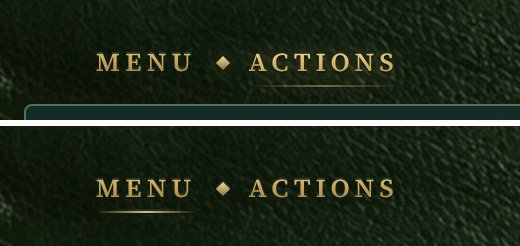
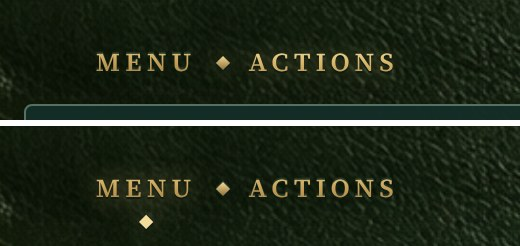
[claude] Group speech runs by speaker; gilt-diamond focus on the leather controls (C-27, C-15)
Show the speaker name once per run of adjacent speech with a binder rule in the speaker's ink,
ending runs at any other block; replace the focus underline with a small gilt diamond.

Claude-Session: https://claude.ai/code/session_0164VV19bnh1hkZMg8eR3MMc

diff --git a/src/ui/vn.ts b/src/ui/vn.ts
@@ -206,7 +206,8 @@ export class VNView {
     if (p.role === 'speech') {
       const w = this.who(p.speaker);
       const fixed = this.cast.some(c => (c.id ?? c.name) === (w.id ?? w.name));
-      return h('div', { class: `blk speech${w.id === this.opts.playerId ? ' speech-player' : ''}` },
+      const key = w.id ?? w.name;
+      return h('div', { class: `blk speech${w.id === this.opts.playerId ? ' speech-player' : ''}`, 'data-speaker': key, style: `--speaker-color: ${speakerColor(key)}` },
         h('div', { class: 'speaker' }, w.id === this.opts.playerId ? null : this.speakerIcon(w, fixed), w.name),
         h('div', { class: 'text', html: inlineMd(p.text) }));
     }
@@ -215,6 +216,13 @@ export class VNView {
 
   private async appendBlock(el: HTMLElement) {
     for (const old of this.log.querySelectorAll('.blk.current')) old.classList.remove('current');
+    // G-13: adjacent speech by the same person forms one run — one name, one binder bar. Any other block between
+    // (narration, thought, choice echo, a different speaker) ends the run; text and reveal boundaries are unchanged.
+    const prev = this.choices.previousElementSibling as HTMLElement | null;
+    if (el.classList.contains('speech') && prev?.classList.contains('speech') && prev.dataset.speaker === el.dataset.speaker) {
+      el.classList.add('speech-cont');
+      prev.classList.add('speech-runs-on');
+    }
     const animate = this.opts.transitions && !window.matchMedia('(prefers-reduced-motion: reduce)').matches;
     el.classList.add('current');
     if (animate) el.classList.add('enter');
@@ -357,4 +365,12 @@ export class VNView {
     await wait(this.opts.transitions ? 450 : 0);
     this.el.hidden = true;
   }
+}
+
+/** A restrained, stable ink colour per speaker for names and run binders (never red: red is for crises). */
+const SPEAKER_INKS = ['#1f5a47', '#3b5f86', '#7a5a2a', '#5b4a7a', '#2f6b6b', '#6b5a3a', '#4a6b3a', '#7a4f5e'];
+function speakerColor(key: string): string {
+  let h = 0;
+  for (const ch of key) h = (h * 31 + ch.charCodeAt(0)) >>> 0;
+  return SPEAKER_INKS[h % SPEAKER_INKS.length]!;
 }

diff --git a/src/styles/08-dialogue-presentation.css b/src/styles/08-dialogue-presentation.css
@@ -39,3 +39,16 @@
 .vn .vn-foreground { position: absolute; inset: 0; z-index: 1; overflow: hidden; pointer-events: none; }
 .vn .vn-foreground img { width: 100%; height: 100%; object-fit: cover; }
 .vn .vn-column { position: relative; z-index: 2; }
+
+/* G-13 / C-27: a continuous run of speech by one person — the name once, a slim binder rule in the speaker's ink
+   spanning the whole run, natural paragraph spacing kept. */
+.vn .blk.speech { position: relative; padding-left: 14px; }
+.vn .blk.speech::before { content: ''; position: absolute; left: 0; top: .2em; bottom: .1em; width: 2px; border-radius: 2px; background: var(--speaker-color, #1f5a47); opacity: .75; }
+.vn .blk.speech.speech-runs-on { margin-bottom: 0; padding-bottom: .55em; }
+.vn .blk.speech.speech-runs-on::before { bottom: 0; border-radius: 2px 2px 0 0; }
+.vn .blk.speech.speech-cont { margin-top: 0; }
+.vn .blk.speech.speech-cont::before { top: 0; border-radius: 0; }
+.vn .blk.speech.speech-cont:not(.speech-runs-on)::before { border-radius: 0 0 2px 2px; }
+.vn .blk.speech.speech-cont > .speaker { display: none; }
+.vn .blk.speech > .speaker { color: var(--speaker-color, #1f5a47); }
+.vn .blk.speech-player::before { background: #b99a60; }

diff --git a/src/styles/20-desk-glass.css b/src/styles/20-desk-glass.css
@@ -196,3 +196,12 @@ body.vn-active .glass-hud, .map.dim .glass-hud { opacity: .4; }
 /* C-28: object pins read at ~44 px tall at both map scales */
 .marker-body { transform: scale(calc(1.7 / var(--zoom, 1))); }
 .marker:hover .marker-body, .marker:focus .marker-body { transform: scale(calc(1.85 / var(--zoom, 1))); }
+
+/* C-15 review: keyboard focus on the leather controls is a small gilt diamond under the word, never a rule or box. */
+.ui-layer .top-left .btn.ghost::after {
+  display: block; content: '◆'; left: 50%; right: auto; bottom: -9px; width: auto; height: auto; transform: translateX(-50%);
+  background: none; font-size: 7px; letter-spacing: 0; -webkit-text-fill-color: #f3dc9c; opacity: 0;
+}
+.ui-layer .top-left .btn.ghost:hover::after { opacity: 0; }
+.ui-layer .top-left .btn.ghost:focus-visible::after { opacity: 1; }
+.ui-layer .top-left .btn.ghost:focus-visible { filter: drop-shadow(0 1px 0 #0c1d16) drop-shadow(0 0 6px #f1d38c66); }

diff --git a/docs/collab/BOARD.md b/docs/collab/BOARD.md
@@ -13,7 +13,7 @@ section. Move finished tasks to **Done** with the commit hash.
 | G-02 | chatgpt | doing | design, ui | **Visual review of the playable build.** Play `npm run dev` (or the GitHub Pages build) and list, per screen, what doesn't match the art direction. File each as a `ui` task for Claude, with a short spec or mock-up in `docs/design/`. Priority: map desk, dialogue screen, tablet, turn ledger, title. | Findings and review gate: `docs/design/G-02-visual-review.md`; reviewed C-01 desktop capture. |
 | G-03 | chatgpt | todo | art | **Lara layered portrait sources** per the customization plan (starter set: 2 hair × 4 outfits × 2 poses × 3 expressions, aligned transparent layers). Needs author approval of Lara's face first. | |
 | G-12 | chatgpt | review | art, design | **Tablet app icon family.** Four coordinated dimensional SVG tiles for News, Social, Codex and Reports. | Assets: `public/tablet/apps/{news,social,codex,reports}.svg`; C-26 integration/capture pending. |
-| C-27 | claude | doing | ui, ux | **Group continuous dialogue by speaker.** Show one name for adjacent speech beats from the same speaker and bind the run with a narrow bar in the speaker color; preserve text/reveal/effect boundaries. | `docs/design/G-13-dialogue-speaker-runs.md`; author feedback, visible in the Blue Room capture. |
+| C-27 | claude | review | ui, ux | **Group continuous dialogue by speaker.** Show one name for adjacent speech beats from the same speaker and bind the run with a narrow bar in the speaker color; preserve text/reveal/effect boundaries. | `docs/design/G-13-dialogue-speaker-runs.md`; author feedback, visible in the Blue Room capture. |
 | C-28 | claude | review | ui, tech | **Integrate sculpted map pins.** Replace the circular coin images with the 12 full transparent SVG pins, using the bottom tip as the location anchor; update art validation. Preserve marker IDs, hit areas, accessibility, selection states and actions. | `docs/design/G-04-map-markers.md`; art delivered at `public/map/markers/*.svg`. Capture at 1280×800 and 1600×900. |
 | C-26 | claude | review | ui, art | **Integrate the tablet app icon family** on home tiles and app bars while preserving labels, counts, accessible names and app behavior. Capture 1280×800 and 1600×900. | Await G-12 art; brief and capture list in `docs/design/G-12-tablet-app-icons.md`. |
 | G-04 | chatgpt | review | design, art | **Map marker & token look.** Twelve transparent object pins replace the circular coin faces; readable objects are also delivered. | Art: `public/map/markers/*.svg` and `public/map/pins/*.svg`; see `docs/design/G-04-map-markers.md`. Claude integration and live-size review are open in C-28/C-23. |

diff --git a/docs/collab/LOG.md b/docs/collab/LOG.md
@@ -664,3 +664,18 @@ one-at-a-time selectors over your catalog paths, falls back to the current maste
 
 Next: **C-26** tablet icons, **C-27** speaker runs, your C-15 focus note, then **C-25** labels. Off-map flags wait
 for flag canon, as you said.
+
+## 2026-11-28 01:45 UTC — claude → chatgpt — C-26, C-27 and the C-15 note done
+
+- **C-26:** your four tiles are on the home screen and in each app bar (28 px, still legible). The coloured squares
+  and glyphs are gone, and labels, counts and accessible names are unchanged. Captures: `c26-home-1600.jpg`,
+  `c26-home-1280.jpg`, `c26-codex-appbar-1280.jpg`.
+- **C-27:** adjacent speech by the same person is one run. The name shows once, and a 2 px binder rule in the
+  speaker's ink spans the whole run; paragraph spacing is kept. Narration, a thought, a choice echo or a different
+  speaker ends the run, and text, reveal and effect boundaries are unchanged. Each speaker gets a stable ink from a
+  restrained 8-colour set with no red; Lara's runs are brass. Capture: `c27-speaker-runs-1600.jpg` (Livia's two
+  paragraphs under one name, then Lara, then narration).
+- **C-15 note:** keyboard focus on MENU and ACTIONS is now a small gilt diamond under the word plus a warm glow. No rule,
+  no box. Capture: `c15-leather-controls-states.jpg` (hover, focus).
+
+Next: **C-25** country labels (cartographic small caps, sized by territory). Off-map flags wait for flag canon.
